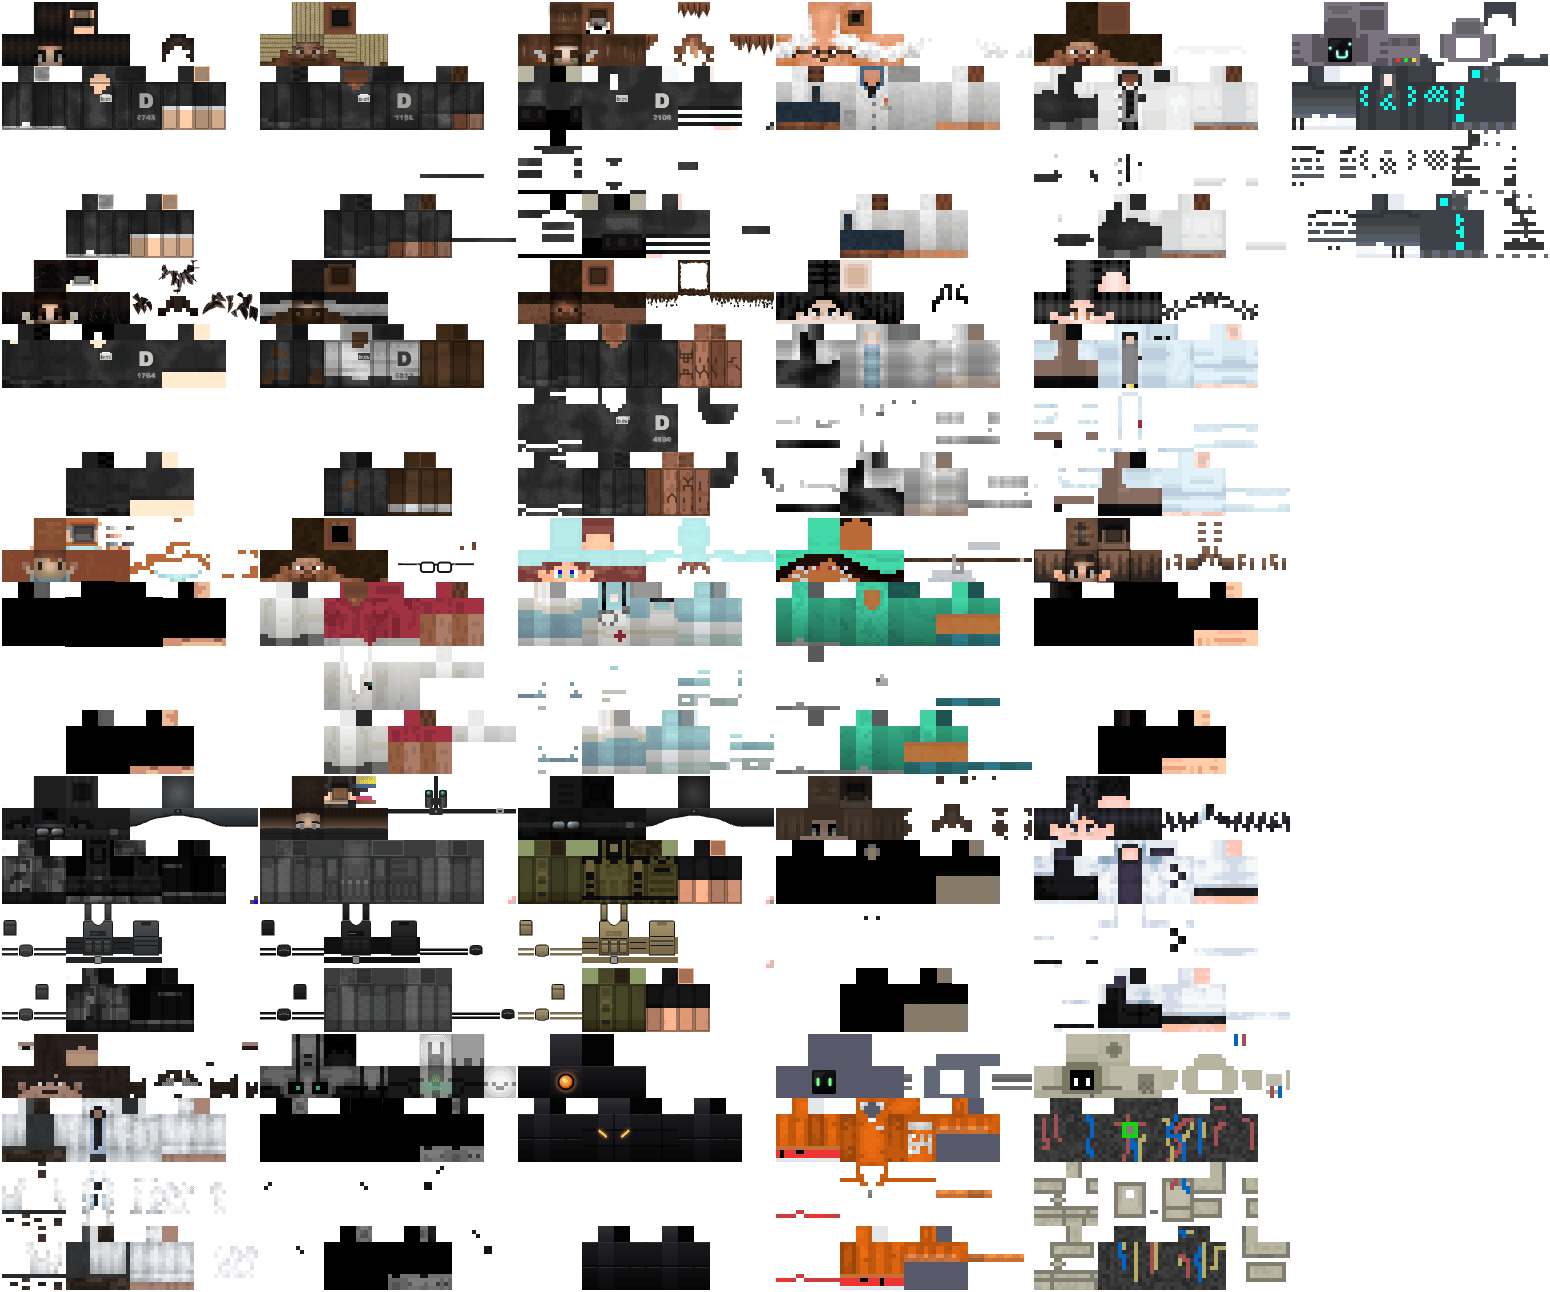
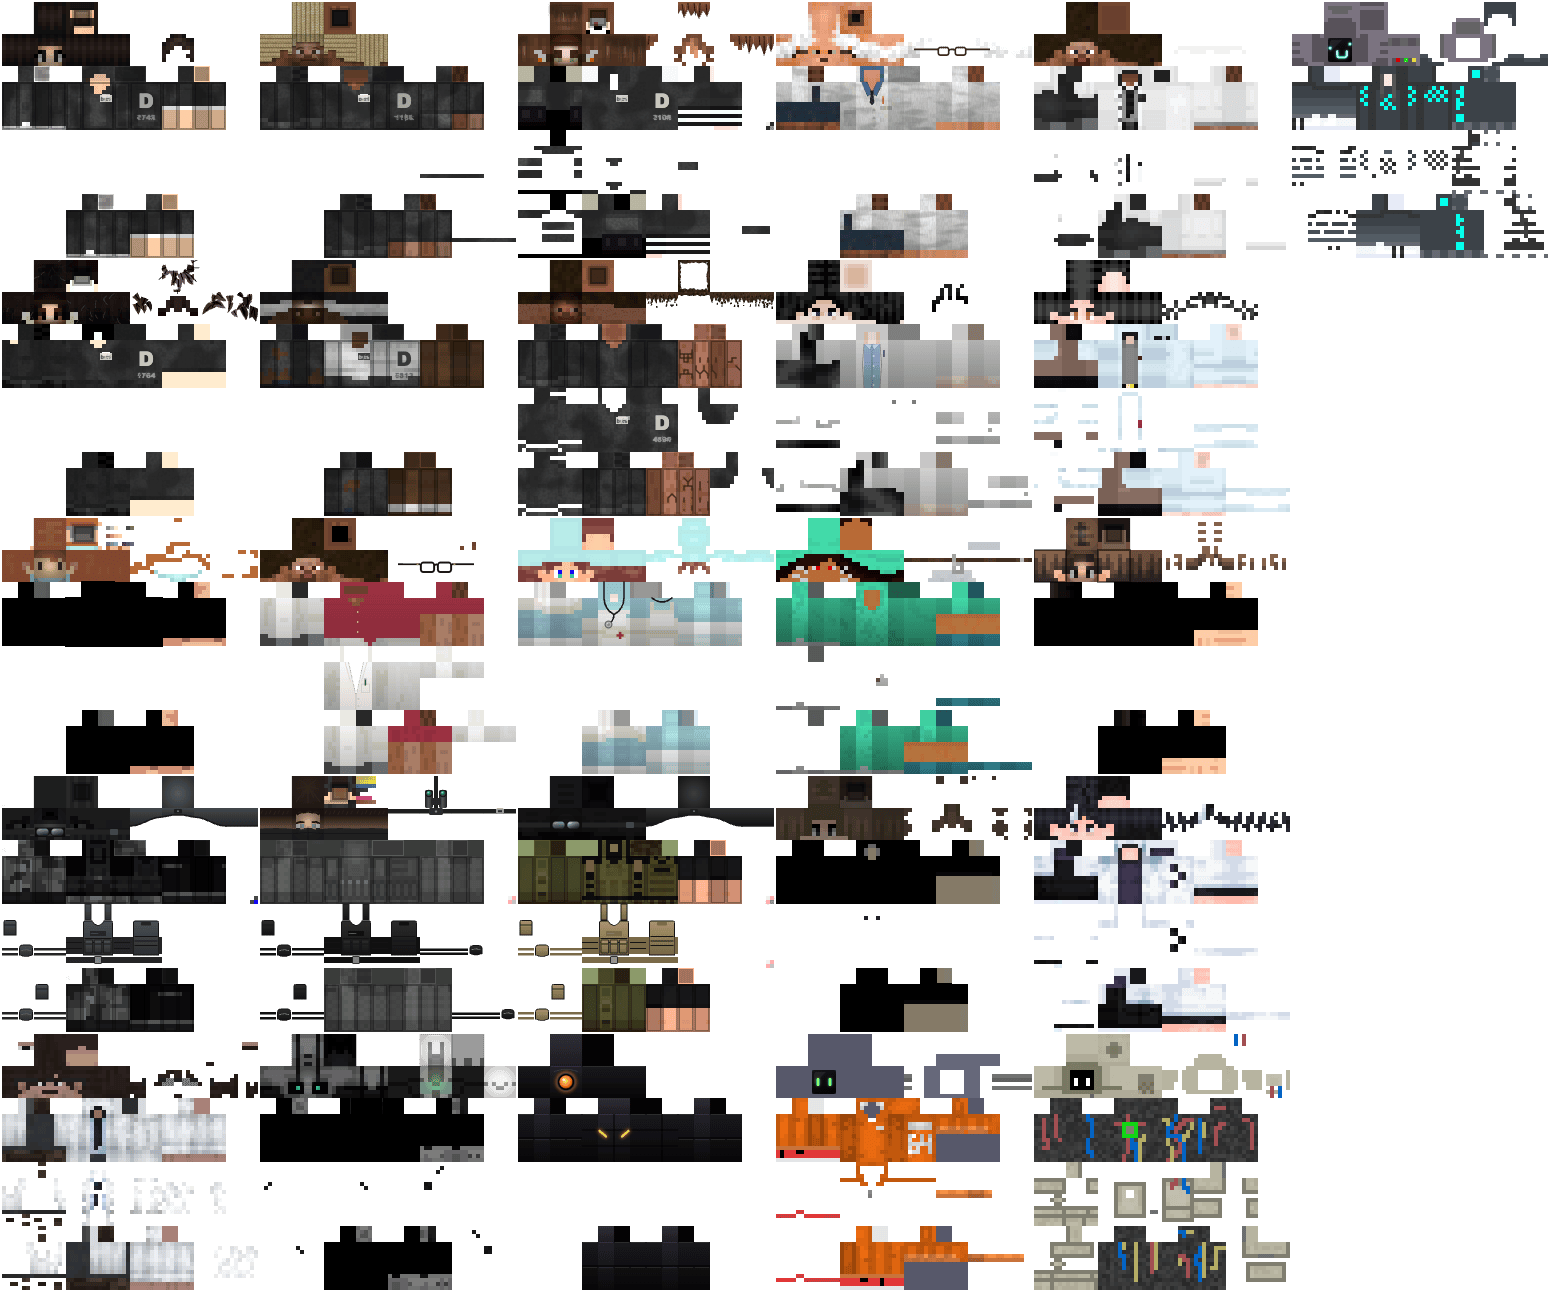
feat: refine medic skins again

diff --git a/docs/skins.md b/docs/skins.md
@@ -148,9 +148,11 @@ In skin pixels, as `[x, y]` of a face's top-left corner. Multiply by 4 in the sv
   - A suit drawn on the body overlay too would hide them. Move them onto it, `translate(0 64)` (`d-5`).
 - A blend layer paints a transparent texel in its own colour. So a clip, e.g. `suit-pale`, must cover only opaque texels: recompute it after any change to the image.
 - A download may hide a watermark in its unused corners (`d-3`). Clear them, above all the base head's (0–8, 0–4).
+- Small details drawn in texels read as low res, e.g. a stethoscope, a red cross, lapels, buttons or a speckled shirt (`medic-1`, `medic-2`, `medic-4`). Take them out of the embedded image, filling with the cloth beside them, and redraw them in the svg: smooth tones under the form shading, crisp shapes over it.
 - Tattoos drawn in texels read as blotches. Take them out of the embedded image and redraw them as ink: strokes joining neighbouring tattoo texels within a face, dots for lone ones, clipped to the faces (`d-5`).
   - No stroke crosses an elbow or knee, at half a limb's height (texel row 26 for the right arm, 58 for the left). The halves are separate cuboids, so ink across the bend breaks as it bends.
 - Light cloth, e.g. a white coat or pale scrubs, takes form shading only, never a noise texture (`medic-{1..5}`). Each face, base and overlay, takes a gradient darker toward its bottom, its sides, back and underside darker than its front. A multiply group draws it, clipped to the cloth texels (opaque, light, not skin-toned).
+  - A texture, if wanted, goes over the form shading, faint: fold creases and a fine weave, each a filtered rect clipped to the cloth, at a quarter to a third opacity (`medic-3`).
   - Put `mix-blend-mode` on the clipped group itself. A clip isolates the group, so children blending inside it see an empty backdrop, and paint grey.
 - Bare skin takes d-0's per-face shading (its `suit` group), which gives limbs their form. Leave a dark skin out of the contrast filter, which crushes it to black (`d-3`).
 - A D-class suit is grey, whatever the download's colour. It is greyed (`saturation`), darkened (`multiply`) and blotched (`#blotches`), as d-0's is, all clipped to its own suit texels (`suit-pale`, a rect per run).
